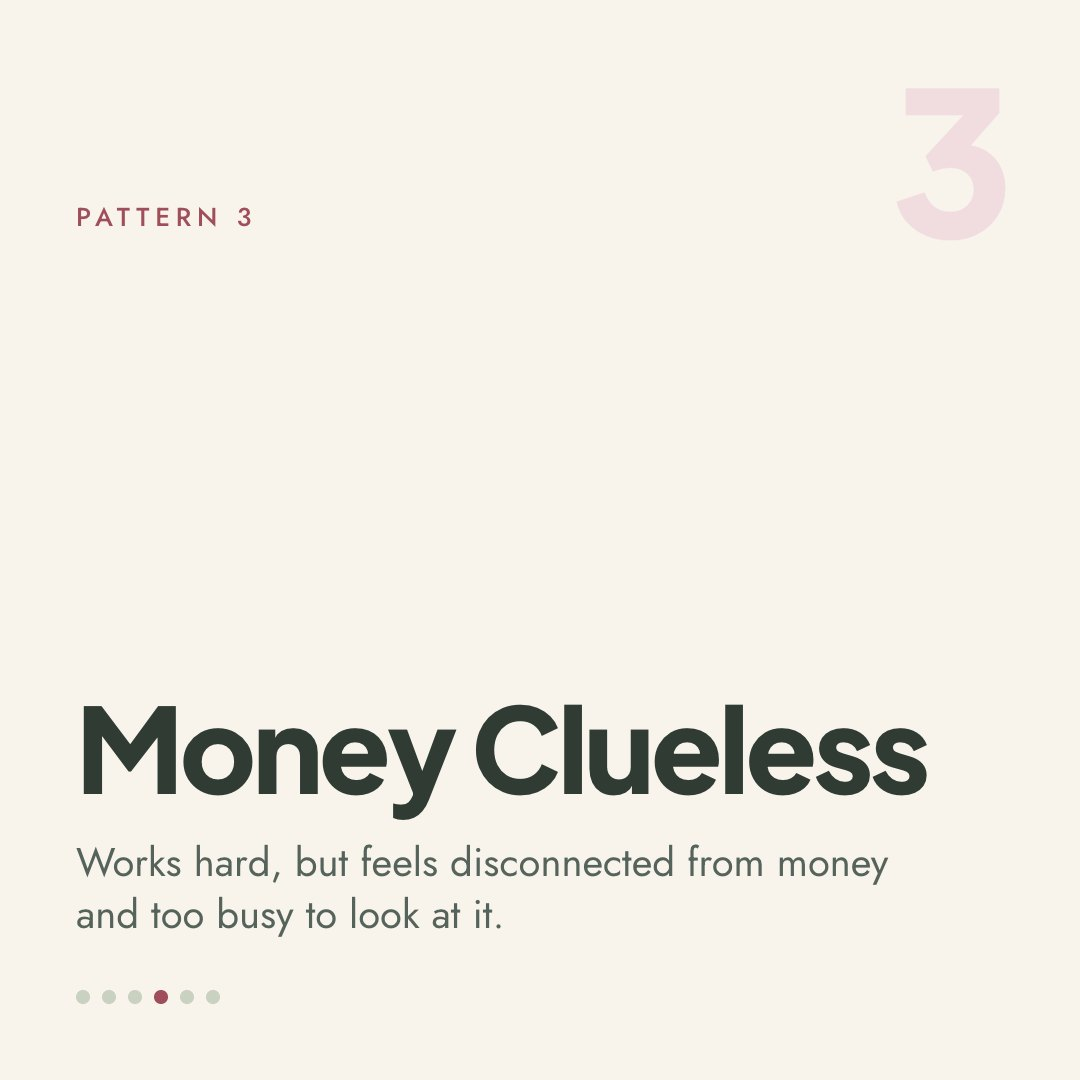
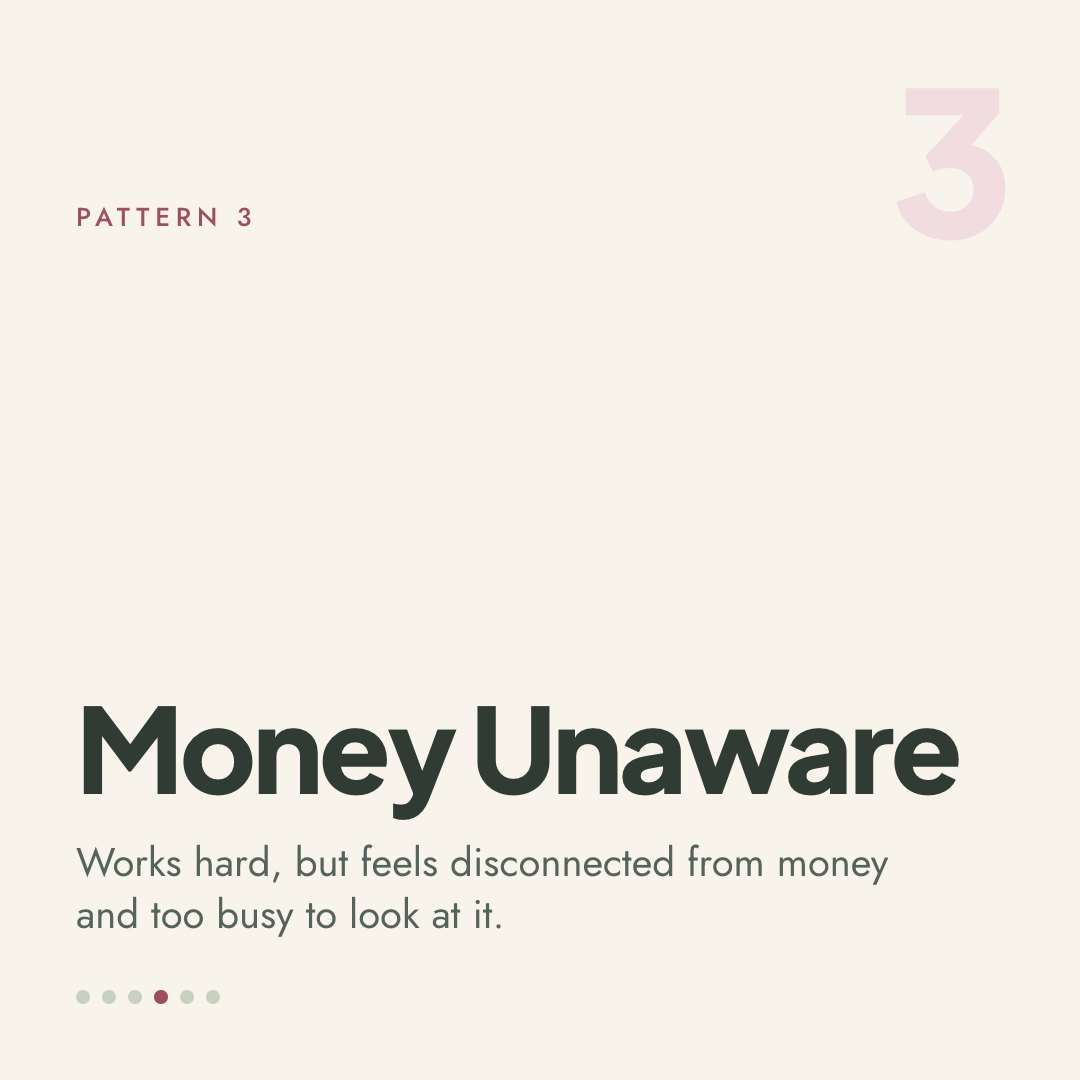
Quiz patterns renamed: Money Unaware and Money Resigned (display names only; Kit keys unchanged)

Changed region(s): [[0.4278, 0.6417, 0.8861, 0.7333]]

diff --git a/review/december-ads/index.html b/review/december-ads/index.html
@@ -137,13 +137,13 @@ var CLASS = [
 var QUIZ = [
  {code:'L1', name:'Which one is yours?', tags:['Static','Nov 25 to Dec 11'], price:'Free scorecard',
   shots:[['img/patterns-feed.jpg','Feed 4:5'],['img/patterns-story.jpg','Stories and Reels 9:16']],
-  primary:"Many high achievers under-earn without realizing it. They overwork, undercharge, and feel like money should be easier by now.\n\nThe Underearning Financial Scorecard shows which of four money patterns you're running: Manifester, Manager, Clueless or Victim. 30 quick statements, about 5 minutes, and your result appears right away.\n\nFree, from transformational coach Lisa Kalmin (39 years, 50,000+ people trained).",
+  primary:"Many high achievers under-earn without realizing it. They overwork, undercharge, and feel like money should be easier by now.\n\nThe Underearning Financial Scorecard shows which of four money patterns you're running: Manifester, Manager, Unaware or Resigned. 30 quick statements, about 5 minutes, and your result appears right away.\n\nFree, from transformational coach Lisa Kalmin (39 years, 50,000+ people trained).",
   headline:"What's your money pattern?", desc:'Free 5-minute scorecard', cta:'Learn more', link:Q+'l1'},
  {code:'L1C', name:'Carousel: the four patterns', tags:['Carousel, 6 cards','Nov 25 to Dec 11'], price:'Free scorecard',
   strip:['img/carousel-1.jpg','img/carousel-2.jpg','img/carousel-3.jpg','img/carousel-4.jpg','img/carousel-5.jpg','img/carousel-6.jpg'],
-  primary:"Many high achievers under-earn without realizing it. They overwork, undercharge, and feel like money should be easier by now.\n\nThe Underearning Financial Scorecard shows which of four money patterns you're running: Manifester, Manager, Clueless or Victim. 30 quick statements, about 5 minutes, and your result appears right away.\n\nFree, from transformational coach Lisa Kalmin (39 years, 50,000+ people trained).",
+  primary:"Many high achievers under-earn without realizing it. They overwork, undercharge, and feel like money should be easier by now.\n\nThe Underearning Financial Scorecard shows which of four money patterns you're running: Manifester, Manager, Unaware or Resigned. 30 quick statements, about 5 minutes, and your result appears right away.\n\nFree, from transformational coach Lisa Kalmin (39 years, 50,000+ people trained).",
   headline:"What's your money pattern?", desc:'Free 5-minute scorecard', cta:'Learn more', link:Q+'l1-carousel',
-  cardHeads:['Which money pattern are you running?','Money Manifester','Money Manager','Money Clueless','Money Victim','Find yours in 5 minutes.'],
+  cardHeads:['Which money pattern are you running?','Money Manifester','Money Manager','Money Unaware','Money Resigned','Find yours in 5 minutes.'],
   note:'Each card gets its own headline in Ads Manager (listed under Card headlines). All six cards use the same link. Stories and Reels use the L1 tall image.'},
  {code:'L2', name:'The family sentence', tags:['Lisa video, about 30 s','Nov 25 to Dec 11'], price:'Free scorecard',
   script:[["What did money sound like in your house growing up?"],["(beat)",1],["For some of us it was silence. For some it was “we can't afford that.”"],["Here's what I've learned in 39 years of coaching: that early story becomes a set point. You can work harder and still find money drifting back to the same level."],["I made a free 5-minute scorecard that shows your money pattern. Tap the link and find yours."]],

diff --git a/quiz/index.html b/quiz/index.html
@@ -135,7 +135,7 @@
 <div id="v-result" class="qcard" hidden>
 <h2 class="kicker" id="rname">Here is your result.</h2>
 <p class="total"><span id="rt">0</span> <small>out of 300</small></p>
-<ol class="patscale" aria-label="Money Mindset Patterns, from proactive to passive"><li data-pattern="manifester"><b>Money Manifester</b><span>30 to 99</span></li><li data-pattern="manager"><b>Money Manager</b><span>100 to 169</span></li><li data-pattern="clueless"><b>Money Clueless</b><span>170 to 234</span></li><li data-pattern="victim"><b>Money Victim</b><span>235 to 300</span></li></ol>
+<ol class="patscale" aria-label="Money Mindset Patterns, from proactive to passive"><li data-pattern="manifester"><b>Money Manifester</b><span>30 to 99</span></li><li data-pattern="manager"><b>Money Manager</b><span>100 to 169</span></li><li data-pattern="clueless"><b>Money Unaware</b><span>170 to 234</span></li><li data-pattern="victim"><b>Money Resigned</b><span>235 to 300</span></li></ol>
 <div class="patscale-ends" aria-hidden="true"><span>Proactive</span><span>Passive</span></div>
 <div class="pattern" data-pattern="manifester" hidden>
 <p class="kicker">Your Money Mindset Pattern · 30 to 99</p>
@@ -153,14 +153,14 @@
 </div>
 <div class="pattern" data-pattern="clueless" hidden>
 <p class="kicker">Your Money Mindset Pattern · 170 to 234</p>
-<h2 class="h1" style="font-size:clamp(40px,6vw,72px)">Money Clueless</h2>
+<h2 class="h1" style="font-size:clamp(40px,6vw,72px)">Money Unaware</h2>
 <p class="lead">You work hard but feel disconnected from money.</p>
 <ul class="ticks"><li>You find yourself disappointed in your finances at the end of the month.</li><li>You feel ill-equipped to handle your finances.</li><li>You are too busy to care most of the time.</li></ul>
 <p class="lead" style="color:var(--rose-l)">You know you are in the way of your financial security and want to change!</p>
 </div>
 <div class="pattern" data-pattern="victim" hidden>
 <p class="kicker">Your Money Mindset Pattern · 235 to 300</p>
-<h2 class="h1" style="font-size:clamp(40px,6vw,72px)">Money Victim</h2>
+<h2 class="h1" style="font-size:clamp(40px,6vw,72px)">Money Resigned</h2>
 <p class="lead">You feel like the system is rigged against you.</p>
 <ul class="ticks"><li>Every time you try something new it fails.</li><li>You feel helpless and powerless in regard to accumulating wealth.</li><li>You feel trapped in a financial loop.</li></ul>
 <p class="lead" style="color:var(--rose-l)">You are looking for a way out of your scarcity and frustration!</p>

diff --git a/email/quiz-confirmation.html b/email/quiz-confirmation.html
@@ -63,11 +63,11 @@
 <p style="margin:0 0 0px;font-size:17px;line-height:26px;color:#2F3B33;">You sometimes overcome your obstacles and sometimes don’t. You may worry about money even when you have it, or look at how to “get” more rather than seeing the flow of money as energy. You want to feel confident and joyful about your money.</p>
 {% elsif subscriber.money_mindset_pattern == "clueless" %}
 <p style="margin:0 0 10px;font-size:12px;line-height:16px;letter-spacing:3px;text-transform:uppercase;font-weight:500;color:#A04E5C;">Your Money Mindset Pattern · 170 to 234</p>
-<p style="margin:0 0 12px;font-family:'Plus Jakarta Sans',Helvetica,Arial,sans-serif;font-weight:800;font-size:28px;line-height:34px;color:#2F3B33;">Money Clueless</p>
+<p style="margin:0 0 12px;font-family:'Plus Jakarta Sans',Helvetica,Arial,sans-serif;font-weight:800;font-size:28px;line-height:34px;color:#2F3B33;">Money Unaware</p>
 <p style="margin:0 0 0px;font-size:17px;line-height:26px;color:#2F3B33;">You work hard but feel disconnected from money, and you are often disappointed in your finances at the end of the month. You know you are in the way of your financial security, and you want to change.</p>
 {% elsif subscriber.money_mindset_pattern == "victim" %}
 <p style="margin:0 0 10px;font-size:12px;line-height:16px;letter-spacing:3px;text-transform:uppercase;font-weight:500;color:#A04E5C;">Your Money Mindset Pattern · 235 to 300</p>
-<p style="margin:0 0 12px;font-family:'Plus Jakarta Sans',Helvetica,Arial,sans-serif;font-weight:800;font-size:28px;line-height:34px;color:#2F3B33;">Money Victim</p>
+<p style="margin:0 0 12px;font-family:'Plus Jakarta Sans',Helvetica,Arial,sans-serif;font-weight:800;font-size:28px;line-height:34px;color:#2F3B33;">Money Resigned</p>
 <p style="margin:0 0 0px;font-size:17px;line-height:26px;color:#2F3B33;">You feel like the system is rigged against you and that you are stuck in a financial loop. You are looking for a way out of scarcity and frustration, and that is exactly where the shift begins.</p>
 {% else %}
 <p style="margin:0 0 10px;font-size:12px;line-height:16px;letter-spacing:3px;text-transform:uppercase;font-weight:500;color:#A04E5C;">Your Money Mindset Pattern</p>

diff --git a/outreach/emails/3-sourced/cold-2.html b/outreach/emails/3-sourced/cold-2.html
@@ -9,7 +9,7 @@
 <body style="margin:0;padding:16px;font-family:-apple-system,Helvetica,Arial,sans-serif;font-size:15px;line-height:22px;">
 <div style="max-width:560px;">
 <p style="margin:0 0 16px;">Hi {{first_name}},</p>
-<p style="margin:0 0 16px;">Following up with something useful either way.</p><p style="margin:0 0 16px;">I built a 5-minute scorecard that shows which money pattern you&#x27;re running: Manifester, Manager, Clueless or Victim. It&#x27;s free, and you get your result right away.</p><p style="margin:0 0 16px;"><a href="https://www.lisakalmin.com/quiz/?utm_source=cold&utm_campaign=mwm-dec&utm_content={{segment}}">www.lisakalmin.com/quiz/</a></p><p style="margin:0 0 16px;">Most {{segment_word}} who take it tell me the result is uncomfortably accurate.</p>
+<p style="margin:0 0 16px;">Following up with something useful either way.</p><p style="margin:0 0 16px;">I built a 5-minute scorecard that shows which money pattern you&#x27;re running: Manifester, Manager, Unaware or Resigned. It&#x27;s free, and you get your result right away.</p><p style="margin:0 0 16px;"><a href="https://www.lisakalmin.com/quiz/?utm_source=cold&utm_campaign=mwm-dec&utm_content={{segment}}">www.lisakalmin.com/quiz/</a></p><p style="margin:0 0 16px;">Most {{segment_word}} who take it tell me the result is uncomfortably accurate.</p>
 <p style="margin:0 0 16px;">Lisa</p>
 <p style="margin:24px 0 0;font-size:13px;line-height:19px;opacity:.75;">--<br>Lisa Kalmin<br>Transformational mindset coach · Author, "The Problem Is How You See the Problem"<br>Costa Mesa, CA<br><br>[postal address] · Not for you? Reply "no thanks" and I won&#x27;t write again.</p>
 </div>

diff --git a/outreach/ads/src/carousel.html b/outreach/ads/src/carousel.html
@@ -17,8 +17,8 @@ var C=[
  {dark:1,e:'Free scorecard · 5 minutes',h:'Which money pattern are you running?',d:'Four patterns shape how money comes, stays and goes. Swipe to meet them.'},
  {n:'1',e:'Pattern 1',h:'Money Manifester',d:'Proactive, sees opportunity in challenges, and senses there’s another level to reach.'},
  {n:'2',e:'Pattern 2',h:'Money Manager',d:'Sometimes gets past the obstacles, and still worries about money even when it’s there.'},
- {n:'3',e:'Pattern 3',h:'Money Clueless',d:'Works hard, but feels disconnected from money and too busy to look at it.'},
- {n:'4',e:'Pattern 4',h:'Money Victim',d:'Feels the system is stacked against them, and stuck in the same financial loop.'},
+ {n:'3',e:'Pattern 3',h:'Money Unaware',d:'Works hard, but feels disconnected from money and too busy to look at it.'},
+ {n:'4',e:'Pattern 4',h:'Money Resigned',d:'Feels the system is stacked against them, and stuck in the same financial loop.'},
  {dark:1,e:'Lisa Kalmin · 39 years of coaching',h:'Find yours in 5 minutes.',d:'30 quick statements and your pattern appears right away. Free.',cta:1}];
 var i=+(location.hash.slice(1)||0), c=C[i], el=document.getElementById('ad');
 if(c.dark) document.body.classList.add('dark');

diff --git a/outreach/ads/src/patterns.html b/outreach/ads/src/patterns.html
@@ -24,8 +24,8 @@ body{background:var(--forest);color:var(--oat)}
 <div class="grid">
  <div class="card"><p class="n">Pattern 1</p><p class="t">Money Manifester</p><p class="d">Sees opportunity, and senses there’s another level.</p></div>
  <div class="card"><p class="n">Pattern 2</p><p class="t">Money Manager</p><p class="d">Worries about money, even when it’s there.</p></div>
- <div class="card"><p class="n">Pattern 3</p><p class="t">Money Clueless</p><p class="d">Works hard, yet feels far from money.</p></div>
- <div class="card hi"><p class="n">Pattern 4</p><p class="t">Money Victim</p><p class="d">Feels the system is stacked against them.</p></div>
+ <div class="card"><p class="n">Pattern 3</p><p class="t">Money Unaware</p><p class="d">Works hard, yet feels far from money.</p></div>
+ <div class="card hi"><p class="n">Pattern 4</p><p class="t">Money Resigned</p><p class="d">Feels the system is stacked against them.</p></div>
 </div>
 <div class="spacer"></div>
 <div class="foot"><div class="brand"><img src="../../../img/avatar.jpg" alt=""><div><b style="color:var(--oat)">Lisa Kalmin</b>Transformational coach</div></div>

diff --git a/outreach/emails/build.py b/outreach/emails/build.py
@@ -573,7 +573,7 @@ dict(id='cold-1', send='Day 1 (from Monday, November 30)', subject_a='quick ques
         'Curious: does that land for you, or is it off base?']),
 dict(id='cold-2', send='Day 3, same thread', subject_a='re: quick question, {{first_name}}', subject_b=None,
   body=['Following up with something useful either way.',
-        "I built a 5-minute scorecard that shows which money pattern you're running: Manifester, Manager, Clueless or Victim. It's free, and you get your result right away.",
+        "I built a 5-minute scorecard that shows which money pattern you're running: Manifester, Manager, Unaware or Resigned. It's free, and you get your result right away.",
         ('link', qz),
         'Most {{segment_word}} who take it tell me the result is uncomfortably accurate.']),
 dict(id='cold-3', send='Day 6', subject_a='the "this far and no further" thing', subject_b=None,

diff --git a/outreach/email-quiz-nurture.md b/outreach/email-quiz-nurture.md
@@ -30,9 +30,9 @@ You're a Money Manifester. You already believe in your value, and you create val
 {% elsif subscriber.money_mindset_pattern == "manager" %}
 You're a Money Manager. You work at it, and sometimes it works. But even when money is there, the worry is too. That tells me you're managing money from a place of "getting," and what's missing is flow, the feeling that money can come to you, not just be chased.
 {% elsif subscriber.money_mindset_pattern == "clueless" %}
-Your pattern is Money Clueless, and please hear this: that is not a judgment about your intelligence. It means you're working hard and feeling disconnected from what money is doing. That disconnection was learned, which means it can be unlearned.
+Your pattern is Money Unaware, and please hear this: that is not a judgment about your intelligence. It means you're working hard and feeling disconnected from what money is doing. That disconnection was learned, which means it can be unlearned.
 {% elsif subscriber.money_mindset_pattern == "victim" %}
-Your pattern is Money Victim. I know that's hard to read. But the fact that you took the scorecard means some part of you is ready to step out of the loop. The feeling that "the system is rigged" is real, and it's also a way of seeing, which means it can change.
+Your pattern is Money Resigned. I know that's hard to read. But the fact that you took the scorecard means some part of you is ready to step out of the loop. The feeling that "the system is rigged" is real, and it's also a way of seeing, which means it can change.
 {% else %}
 Whatever your score, it isn't a verdict. It's a map of the beliefs you were handed about money.
 {% endif %}

diff --git a/outreach/dm-followers.md b/outreach/dm-followers.md
@@ -69,8 +69,8 @@ Start with their pattern:
 
 - **Manifester:** "That makes total sense. You already believe in your value, so it's usually one last stop that keeps the next level out of reach."
 - **Manager:** "So common! The worry even when the money's there tells me there's a set point to reset."
-- **Clueless:** "Please don't take the name personally 😊 It just means the disconnect was learned, which means it can be unlearned."
-- **Victim:** "I know that one stings. The fact you took it means you're ready to step out of the loop."
+- **Unaware:** "That one just means the disconnect was learned, which means it can be unlearned 😊"
+- **Resigned:** "I know that one can feel heavy. The fact you took it means you're ready to step out of the loop."
 
 Then, **until Dec 3 (full price):**
 

diff --git a/outreach/meta-ads.md b/outreach/meta-ads.md
@@ -117,7 +117,7 @@ Each ad uses CTA **Learn more** (or **Take quiz** where offered), headline under
 **Primary text:**
 Many high achievers under-earn without realizing it. They overwork, undercharge, and feel like money should be easier by now.
 
-The Underearning Financial Scorecard shows which of four money patterns you're running: Manifester, Manager, Clueless or Victim. 30 quick statements, about 5 minutes, and your result appears right away.
+The Underearning Financial Scorecard shows which of four money patterns you're running: Manifester, Manager, Unaware or Resigned. 30 quick statements, about 5 minutes, and your result appears right away.
 
 Free, from transformational coach Lisa Kalmin (39 years, 50,000+ people trained).
 

diff --git a/outreach/manychat.md b/outreach/manychat.md
@@ -41,7 +41,7 @@ Kit tag added through the integration: **`instagram-dm`** (only on the "email it
 
 > Hi {{first_name}}! I'm so glad you asked 💛
 >
-> My Underearning Financial Scorecard shows which money pattern you're running: Manifester, Manager, Clueless or Victim. 30 quick statements, about 5 minutes, and you see your result right away.
+> My Underearning Financial Scorecard shows which money pattern you're running: Manifester, Manager, Unaware or Resigned. 30 quick statements, about 5 minutes, and you see your result right away.
 >
 > [Button: **Send me the scorecard**]
 

diff --git a/outreach/email-cold.md b/outreach/email-cold.md
@@ -63,7 +63,7 @@ Hi {{first_name}},
 
 Following up with something useful either way.
 
-I built a 5-minute scorecard that shows which money pattern you're running: Manifester, Manager, Clueless or Victim. It's free, and you get your result right away.
+I built a 5-minute scorecard that shows which money pattern you're running: Manifester, Manager, Unaware or Resigned. It's free, and you get your result right away.
 
 https://www.lisakalmin.com/quiz/?utm_source=cold&utm_campaign=mwm-dec&utm_content={{segment}}
 
